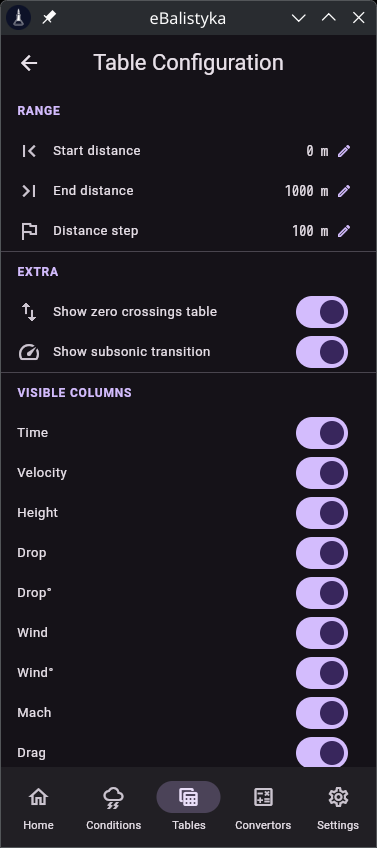
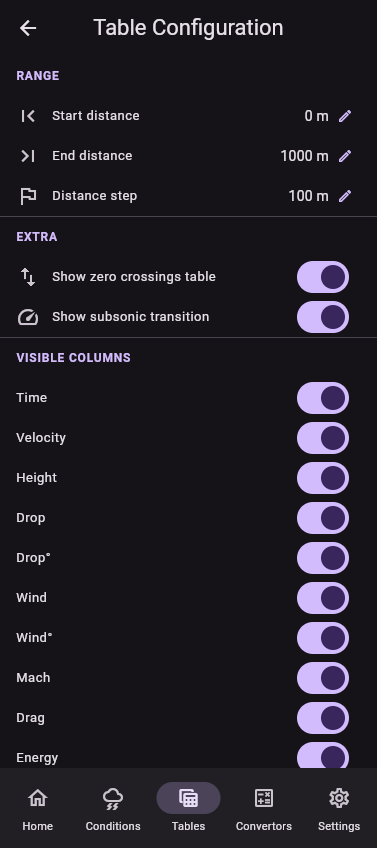
docs(help): rewrite the Tables topic, refresh its screenshots (0012)
Claude-Session: https://claude.ai/code/session_01YaKPhinh6z3mKcsTpjePCU

diff --git a/assets/markdown/uk/tablesScreen.md b/assets/markdown/uk/tablesScreen.md
@@ -4,21 +4,25 @@
 
 ![Таблиця траєкторії](resource:assets/markdown/uk/tablesScreen_trajectory.png)
 
-Таблиця відображає балістичні дані для поточного профілю і умов стрільби по дистанціях. Ліва колонка (дистанція) зафіксована — решта колонок прокручується горизонтально.
+Вкладка показує балістичні дані для поточного профілю та умов стрільби на різних дистанціях. Ліва колонка (відстань) закріплена, решта колонок прокручується горизонтально.
 
-**Кольорове позначення рядків:**
-- Звичайний рядок — дані польоту
-- Виділений (синій) — цільова дистанція (нульова точка)
-- Червоний — перетин нуля траєкторії
-- Жовтий — перехід у дозвуковий режим
+Вкладка має до двох розділів:
 
-**Тап по рядку** відкриває діалог з усіма значеннями для обраної дистанції.
+- **Перетин нулів** — дистанції, на яких траєкторія перетинає лінію прицілювання: стрілка вгору позначає перший перетин (куля піднімається крізь лінію прицілювання), стрілка вниз — другий (куля опускається). Можна вимкнути в налаштуваннях таблиці
+- **Траєкторія** — по рядку на кожну дистанцію від початкової до кінцевої з обраним кроком
+
+**Підсвічення рядків:**
+- Акцентний колір, жирним — дистанція пристрілки (дистанція, на яку пристріляна зброя)
+- Червоний — перетин нуля
+- Приглушений акцентний колір — перехід на дозвук
+
+**Натисніть рядок**, щоб відкрити вікно з усіма значеннями для цієї дистанції, включно з поправками в усіх увімкнених одиницях.
 
 ![Деталі рядка](resource:assets/markdown/uk/tablesScreen_rowDetail.png)
 
-**Кнопки у верхньому куті:**
-- **Шестерня** — відкриває налаштування таблиці (лише на вкладці «Траєкторія»)
-- **Експорт** — експортує таблицю у HTML-файл
+**Кнопки вгорі праворуч:**
+- **Налаштування таблиці** (іконка повзунків, лише на вкладці «Траєкторія») — відкриває налаштування таблиці
+- **Поділитися** — експортує таблицю як HTML-сторінку; вона відкривається в браузері (у веб-версії — в новій вкладці), де її можна надрукувати або зберегти
 
 ---
 
@@ -26,12 +30,12 @@
 
 ![Деталі профілю](resource:assets/markdown/uk/tablesScreen_details.png)
 
-Відображає параметри поточного профілю, які використовуються для розрахунку:
+Параметри, використані для розрахунку:
 
-- **Зброя** — назва, калібр, крок нарізів, нульова дистанція
-- **Набій** — початкова швидкість (нульова та поточна)
-- **Куля** — модель опору, балістичний коефіцієнт, форм-фактор, маса, довжина, гіроскопічна стабільність
-- **Умови** — температура, вологість, тиск, вітер
+- **Зброя** — назва, калібр, крок нарізів, дистанція пристрілки
+- **Набій** — швидкість пристрілюваної кулі та поточна початкова швидкість (вони різняться, коли температура пороху змінює швидкість)
+- **Снаряд** — модель опору, балістичний коефіцієнт, довжина, калібр, вага, коефіцієнт форми, поперечне навантаження, коефіцієнт гіроскопічної стабільності (ФГС)
+- **Умови** — температура, вологість, тиск, швидкість і напрямок вітру
 
 ---
 
@@ -39,17 +43,18 @@
 
 ![Налаштування таблиці](resource:assets/markdown/uk/tablesScreen_config.png)
 
-Відкривається кнопкою **шестерні**. Дозволяє налаштувати вигляд і діапазон таблиці.
+Відкривається кнопкою **повзунків** на вкладці «Траєкторія». Дозволяє налаштувати діапазон дистанцій та стовпці.
 
-**Дистанція:**
-- Початок, кінець і крок — визначають рядки таблиці
+**Відстань** — Початкова відстань, Кінцева відстань і Крок відстані визначають рядки таблиці.
 
-**Додаткові таблиці:**
-- **Таблиця перетину нуля** — показує окремий розділ з дистанціями де траєкторія перетинає нуль
-- **Дозвуковий перехід** — підсвічує рядок переходу в дозвуковий режим
+**Додатково:**
+- **Відображати таблицю перетину нулів** — додає окремий розділ «Перетин нулів»
+- **Відображати перехід на дозвук** — підсвічує рядок, де куля переходить на дозвукову швидкість
 
-**Видимі колонки** — вмикають/вимикають окремі метрики:
-Час · Швидкість · Висота · Знесення · Знесення (скоригов.) · Вітер · Вітер (скоригов.) · Mach · Опір · Енергія
+**Відображати стовпці** — вмикайте й вимикайте окремі показники:
+Час · Швидкість · Висота · Верт. поправка · Верт. поправка° · Гориз. поправка · Гориз. поправка° · Мах · Драг · Енергія
 
-**Поправки** — одиниці відображення поправок у колонках:
-mrad · MOA · mil · см/100м · дюйм/100ярд · клік
+(Верт. й Гориз. поправка — лінійні значення; стовпці з позначкою ° — ті самі поправки як кути в одиницях, обраних нижче.)
+
+**Стовпці поправок** — які кутові одиниці показувати для стовпців «Верт. поправка°» і «Гориз. поправка°»:
+MRAD · MOA · MIL · см/100м · дюйм/100ярд · Кліки

diff --git a/assets/markdown/en/tablesScreen.md b/assets/markdown/en/tablesScreen.md
@@ -4,21 +4,25 @@
 
 ![Trajectory table](resource:assets/markdown/en/tablesScreen_trajectory.png)
 
-The table displays ballistic data for the current profile and shooting conditions across distances. The left column (range) is fixed — the remaining columns scroll horizontally.
+The tab shows ballistic data for the current profile and shooting conditions across distances. The left column (range) is fixed — the remaining columns scroll horizontally.
 
-**Row colour coding:**
-- Normal row — flight data
-- Highlighted (blue) — target distance (zero point)
-- Red — trajectory zero crossing
-- Yellow — subsonic transition
+It has up to two sections:
 
-**Tap a row** to open a detail dialog with all values for that distance.
+- **Zero crossings** — the distances where the trajectory crosses the line of sight: an up arrow marks the first crossing (the bullet rising through the line of sight), a down arrow the second (coming down). Can be turned off in the table settings
+- **Trajectory** — one row per distance, from the start to the end distance with the chosen step
+
+**Row highlighting:**
+- Accent colour, bold — the zero distance (the distance the weapon is zeroed for)
+- Red — a zero crossing
+- Subdued accent colour — the subsonic transition
+
+**Tap a row** to open a dialog with all values for that distance, including the corrections in every unit you have enabled.
 
 ![Row details](resource:assets/markdown/en/tablesScreen_rowDetail.png)
 
 **Top-right buttons:**
-- **Gear** — opens table settings (Trajectory tab only)
-- **Export** — exports the table as an HTML file
+- **Table settings** (sliders icon, Trajectory tab only) — opens the table configuration
+- **Share** — exports the table as an HTML page; it opens in your browser (in a new tab on the web version), where you can print or save it
 
 ---
 
@@ -26,12 +30,12 @@ The table displays ballistic data for the current profile and shooting condition
 
 ![Profile details](resource:assets/markdown/en/tablesScreen_details.png)
 
-Displays the parameters of the current profile used for the calculation:
+The parameters used for the calculation:
 
-- **Weapon** — name, calibre, twist rate, zero distance
-- **Cartridge** — muzzle velocity (at zero and current)
-- **Projectile** — drag model, ballistic coefficient, form factor, weight, length, gyroscopic stability
-- **Conditions** — temperature, humidity, pressure, wind
+- **Weapon** — name, caliber, twist rate, zero distance
+- **Cartridge** — zero muzzle velocity and current muzzle velocity (it differs when powder temperature changes the velocity)
+- **Projectile** — drag model, ballistic coefficient, length, caliber, weight, form factor, sectional density, gyroscopic stability factor (Sg)
+- **Conditions** — temperature, humidity, pressure, wind speed and direction
 
 ---
 
@@ -39,17 +43,18 @@ Displays the parameters of the current profile used for the calculation:
 
 ![Table settings](resource:assets/markdown/en/tablesScreen_config.png)
 
-Opened via the **gear** button. Lets you customise the table layout and distance range.
+Opened with the **sliders** button on the Trajectory tab. Lets you customise the distance range and the columns.
 
-**Distance:**
-- Start, end, and step — define the table rows
+**Range** — Start distance, End distance and Distance step define the rows of the table.
 
-**Extra tables:**
-- **Zero crossing table** — shows a separate section with distances where the trajectory crosses zero
-- **Subsonic transition** — highlights the row where the bullet goes subsonic
+**Extra:**
+- **Show zero crossings table** — adds the separate Zero crossings section
+- **Show subsonic transition** — highlights the row where the bullet goes subsonic
 
-**Visible columns** — enable/disable individual metrics:
-Time · Velocity · Height · Drop · Drop (Adjusted) · Wind · Wind (Adjusted) · Mach · Drag · Energy
+**Visible columns** — switch individual metrics on or off:
+Time · Velocity · Height · Drop · Drop° · Wind · Wind° · Mach · Drag · Energy
 
-**Adjustments** — units for adjustment columns:
-mrad · MOA · mil · cm/100m · in/100yd · click
+(Drop and Wind are the linear values; the columns marked ° are the same corrections as angles, in the units chosen below.)
+
+**Adjustment columns** — which angular units to show for the Drop° and Wind° columns:
+MRAD · MOA · MIL · cm/100m · in/100yd · Clicks
